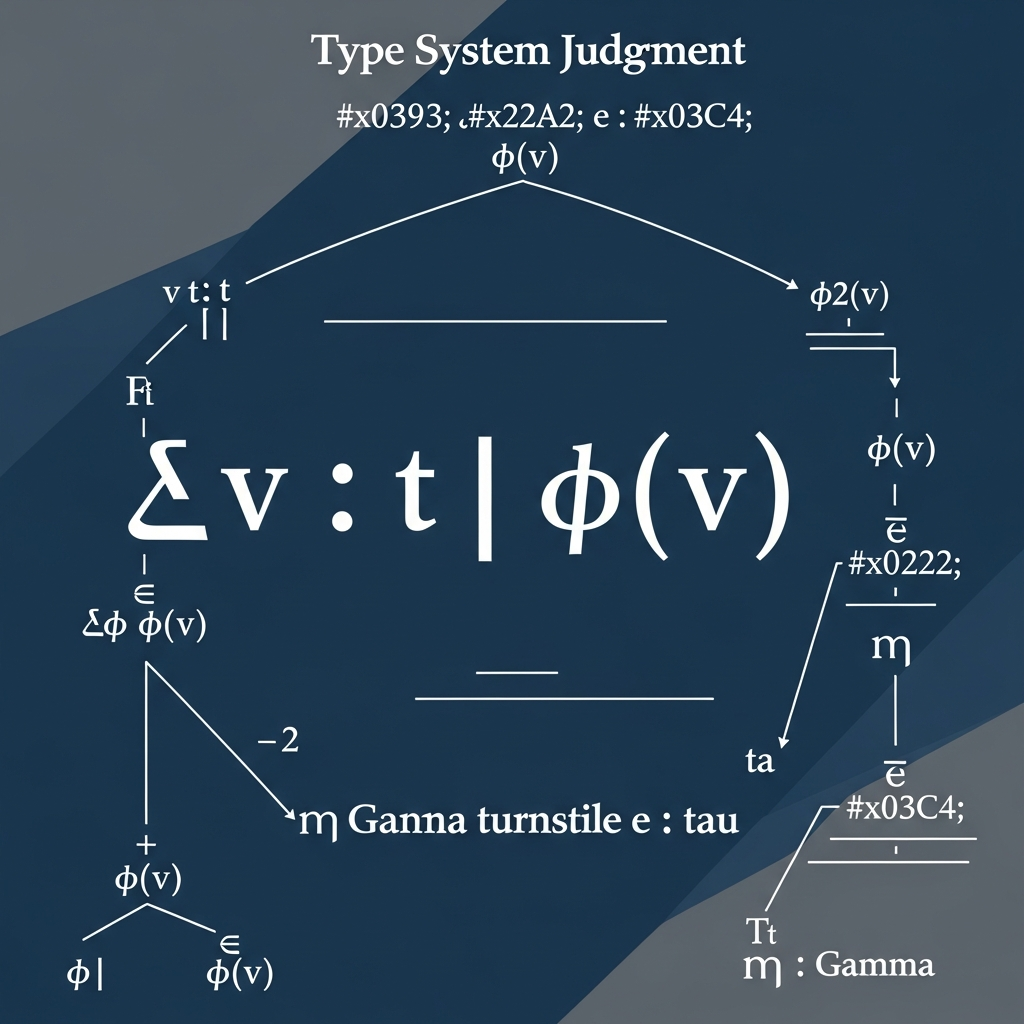
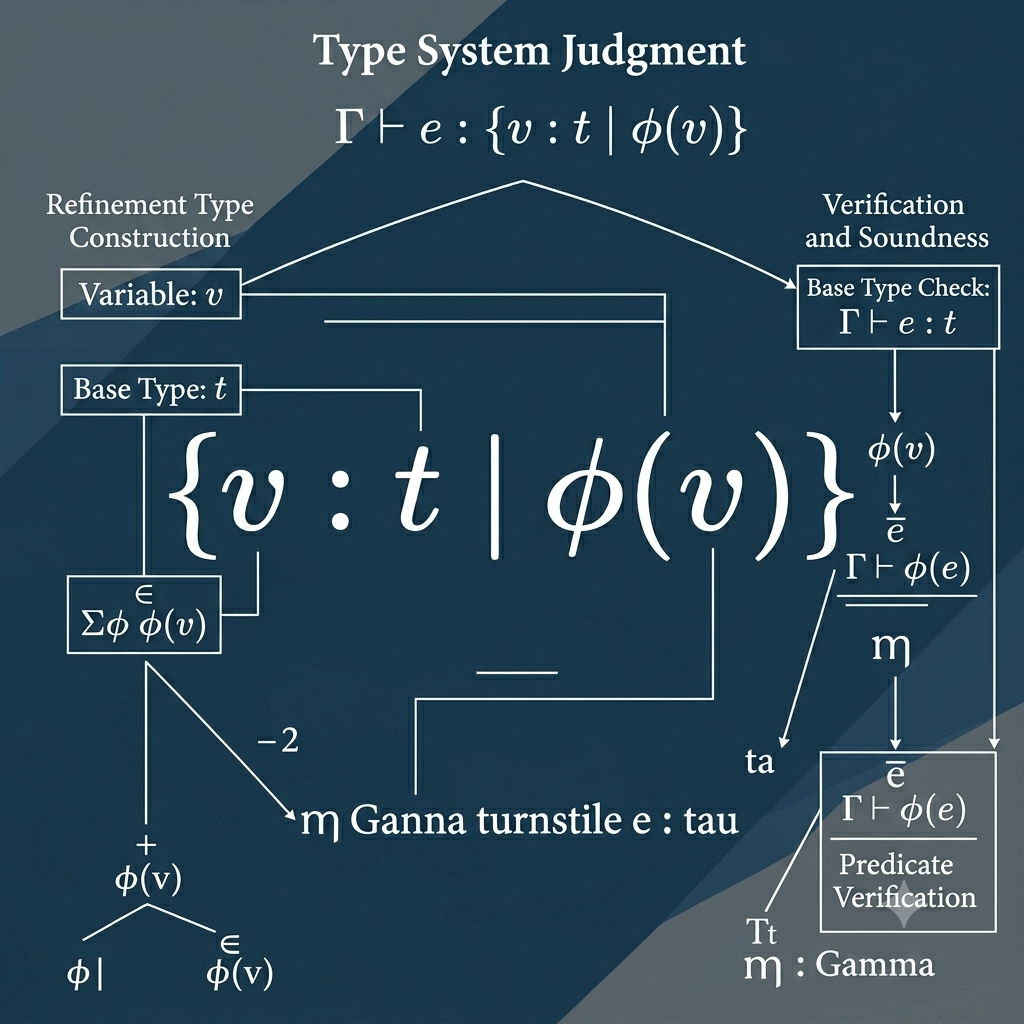
projects and felllowships

diff --git a/_pages/projects.md b/_pages/projects.md
@@ -89,7 +89,24 @@ Our group is involved in several interesting projects across **Programming Langu
   .card-content li {
     margin-bottom: 0.3rem;
   }
-  
+
+  /* Expandable section styles */
+  .project-details {
+    margin-top: 0.25rem;
+  }
+  .project-details summary {
+    cursor: pointer;
+    font-weight: 600;
+    font-size: 0.9rem;
+    color: var(--global-theme-color);
+    user-select: none;
+    outline: none;
+    margin-bottom: 0.5rem;
+  }
+  .project-details summary:hover {
+    text-decoration: underline;
+  }
+
   /* Dark mode adjustments using alfolio's native variables */
   html[data-theme='dark'] .custom-project-card {
     box-shadow: 0 4px 15px rgba(255,255,255,0.02);
@@ -129,23 +146,27 @@ Our group is involved in several interesting projects across **Programming Langu
     </div>
   </div>
 
-  <!-- Section 2: Neurosymbolic AI -->
+  <!-- Section 2: Trustworthy AI -->
   <div class="custom-project-card">
     <div class="card-img-container">
-      <img src="{{ '/assets/img/ns-project.png' | relative_url }}" alt="Neurosymbolic AI" onerror="this.src='https://placehold.co/600x400?text=Neurosymbolic+AI'">
+      <img src="{{ '/assets/img/ai-guardrails-project.png' | relative_url }}" alt="Trustworthy AI" onerror="this.src='https://placehold.co/600x400?text=Trustworthy+AI'">
     </div>
     <div class="card-content">
       <div class="card-tags">
-        <span class="card-tag">AI/ML</span>
-        <span class="card-tag">Formal Logic</span>
+        <span class="card-tag">Trustworthy AI</span>
+        <span class="card-tag">Neurosymbolic AI</span>
+        <span class="card-tag">Formal Verification</span>
+        <span class="card-tag">Guardrailing</span>
       </div>
-      <h3>Neurosymbolic Programming / AI</h3>
-      <p>Working at the intersection of Programming Languages and ML to address the limitations of both Neural and Symbolic approaches. We aim to synthesize efficient, robust, and verified programs for safety-critical tasks.</p>
-      <p><small><i>Check out these resources on <a href="https://neurips.cc/virtual/2022/55804">Neurosymbolic Programming</a> and <a href="https://www.centaurinstitute.org/education">Neurosymbolic AI</a>.</i></small></p>
+      <h3>Trustworthy AI: Guardrailing & Neuro-Formal Methods</h3>
+      <details class="project-details">
+        <summary>Read full project overview</summary>
+        <p>Bridging the gap between AI/ML and Formal Verification, this project introduces a neuro-symbolic/neuro formal framework that uses formal methods to mathematically guardrail AI systems. By integrating neural architectures (LLMs in particular) with theorem provers like Lean, automated SMT solvers, and symbolic reasoning engines, the system replaces soft probabilistic guardrails with provably correct runtime constraints. This hybrid pipeline continuously validates neural outputs against formally defined safety specifications, effectively preventing hallucinations, logical contradictions, and policy violations in high-stakes domains. Ultimately, it provides a deterministic, mathematically sound foundation for deploying trustworthy AI where empirical evaluation alone is insufficient.</p>
+      </details>
     </div>
   </div>
 
-  <!-- Section 3: Synthesis for X -->
+  <!-- Section 3: Symbolic and Neurosymbolic Program Synthesis -->
   <div class="custom-project-card">
     <div class="card-img-container">
       <img src="{{ '/assets/img/sync-project.png' | relative_url }}" alt="Program Synthesis for X" onerror="this.src='https://placehold.co/600x400?text=Synthesis+for+X'">
@@ -155,7 +176,7 @@ Our group is involved in several interesting projects across **Programming Langu
         <span class="card-tag">Synthesis for Networking</span>
         <span class="card-tag">Synthesis for Data Transform</span>
       </div>
-      <h3>Neurosymbolic Program Synthesis for X</h3>
+      <h3>Symbolic and Neurosymbolic Program Synthesis</h3>
       <p>Solving challenging, error-prone programming tasks across various domains using verified program synthesis using a combination of PL and AI/ML techniques.</p>
       <ul>
         <li><b>DUNE</b>: NeuroSymbolic Synthesis for Automatic Data Transformation.</li>

diff --git a/_news/announcement_22.md b/_news/announcement_22.md
@@ -1,0 +1,7 @@
+---
+layout: post
+date: 2026-08-28
+inline: true
+---
+
+We are looking for a good PhD student to join our group to work on topics broadly related to _Trustworthy AI: Guardrailing AI and Formal Methods for AI_. The call for special round is open, details at https://cse.iith.ac.in/admissions/phd.html . Please write to me for to know more about the project or pre-meeting.

diff --git a/_news/announcement_21.md b/_news/announcement_21.md
@@ -1,0 +1,8 @@
+---
+layout: post
+date: 2026-08-16
+inline: true
+---
+
+
+Congratulations to both our PhD students, [Vyshnavi](https://sreevyshnavi02.github.io/) and [Varsha](https://github.com/Chebrolu-Varsha) for being selected for the prestigious TCS Research Fellowship 2026. 
